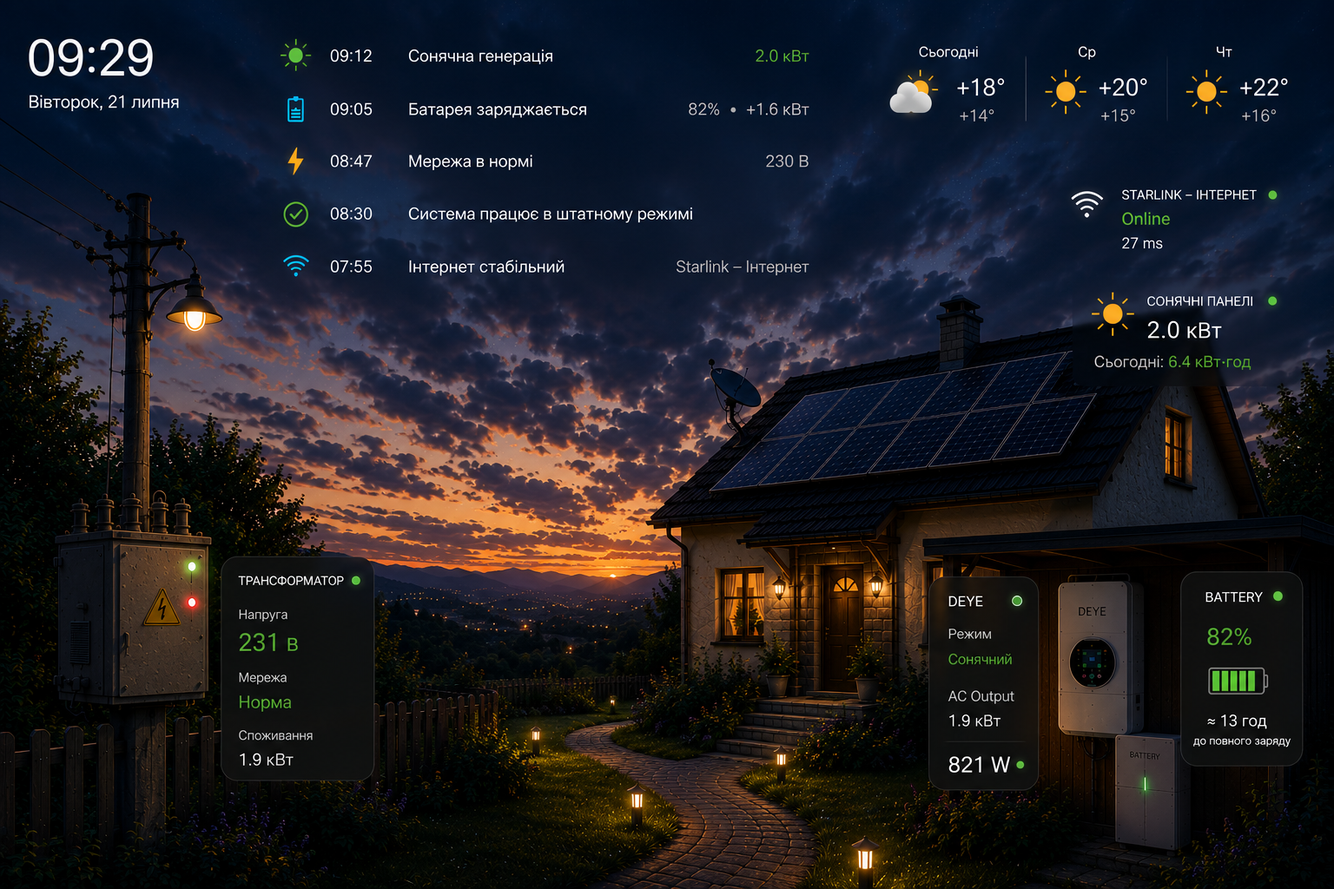
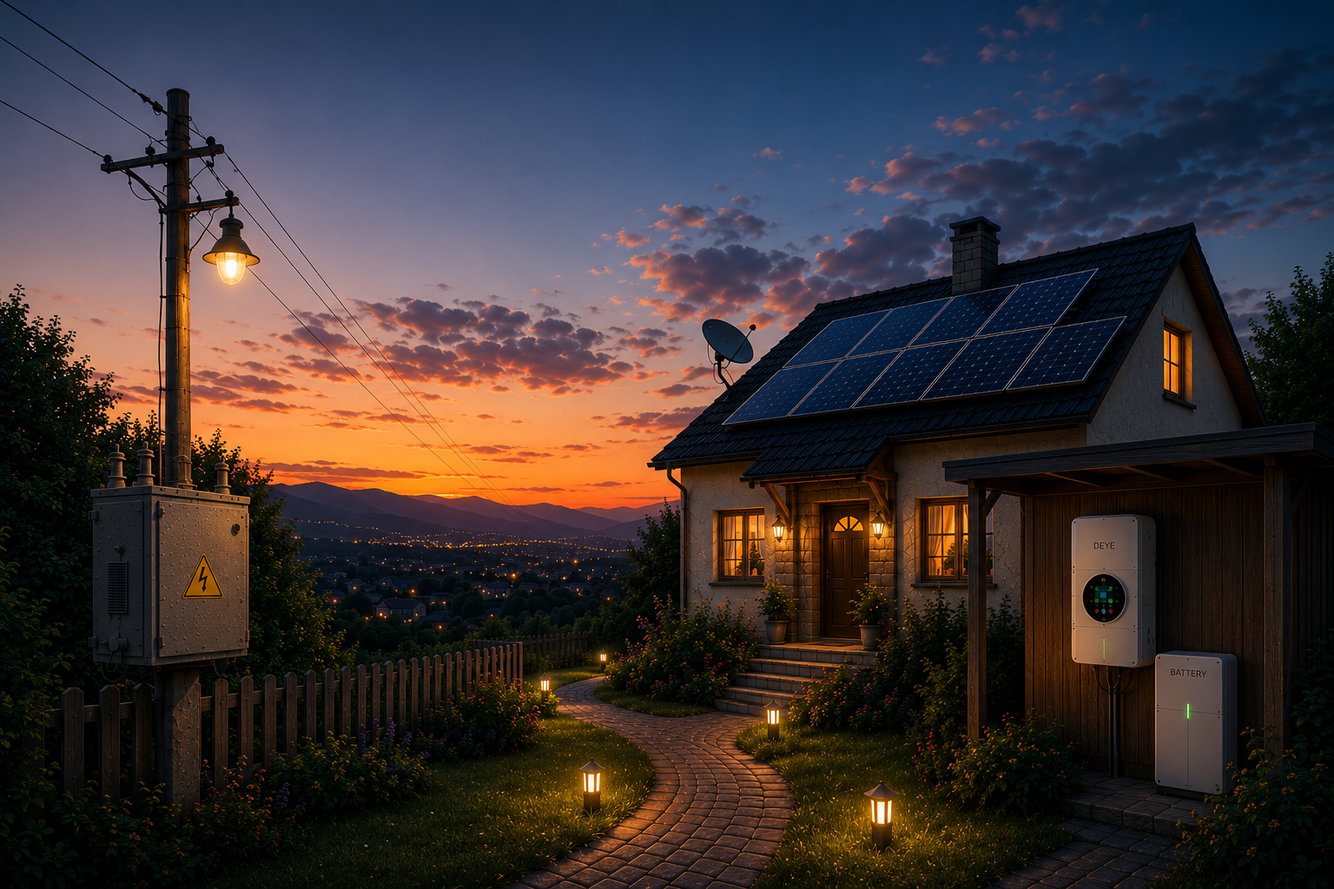
feat: new disign3

diff --git a/styles.css b/styles.css
@@ -1,25 +1,51 @@
-*{box-sizing:border-box}html,body{width:100%;height:100%;margin:0;overflow:hidden;background:#101722;color:#f5f7fb;font-family:Inter,ui-sans-serif,-apple-system,BlinkMacSystemFont,"Segoe UI",sans-serif}
-.scene{position:relative;width:100vw;height:100svh;min-height:520px;overflow:hidden;isolation:isolate;background:#172030}
-.scene__background,.scene__fallback,.scene__shade{position:absolute;inset:0;width:100%;height:100%}
-.scene__background{z-index:-4;object-fit:cover;object-position:center;filter:saturate(.9) contrast(1.02)}
-.scene__fallback{z-index:-5;background:radial-gradient(circle at 73% 34%,rgba(255,180,96,.42),transparent 28%),linear-gradient(180deg,#263a55 0%,#6b5662 48%,#243126 100%)}
-.scene__shade{z-index:-3;background:linear-gradient(180deg,rgba(6,10,17,.22),transparent 27%,transparent 69%,rgba(5,9,14,.38)),linear-gradient(90deg,rgba(4,8,14,.27),transparent 25%,transparent 76%,rgba(4,8,14,.2));pointer-events:none}
-.top{position:absolute;left:clamp(18px,3vw,54px);right:clamp(18px,3vw,54px);top:clamp(15px,2.6vw,42px);display:grid;grid-template-columns:1fr auto 1fr;align-items:start;z-index:5;pointer-events:none}
-.brand{display:flex;align-items:baseline;gap:10px;text-shadow:0 2px 18px #000}.brand strong{font-size:clamp(22px,2vw,36px);letter-spacing:.12em}.brand span{font-size:clamp(9px,.75vw,13px);letter-spacing:.22em;opacity:.66}
-.clock{text-align:center;text-shadow:0 3px 24px #000}.clock strong{display:block;font-size:clamp(26px,3.1vw,54px);font-weight:450;line-height:.9;letter-spacing:-.04em}.clock span{display:block;margin-top:8px;font-size:clamp(10px,.78vw,13px);opacity:.62}
-.weather{justify-self:end;display:grid;grid-template-columns:auto auto;column-gap:10px;align-items:center;text-shadow:0 2px 18px #000}.weather__icon{font-size:clamp(22px,2vw,34px)}.weather strong{display:block;font-size:clamp(18px,1.7vw,30px);font-weight:550}.weather small{display:block;font-size:11px;opacity:.7}.forecast{grid-column:1/-1;display:flex;gap:10px;margin-top:7px;justify-content:flex-end}.forecast span{font-size:10px;opacity:.65}
-.house-log{position:absolute;left:clamp(22px,4vw,72px);top:clamp(108px,17vh,180px);z-index:4;display:flex;flex-direction:column;gap:9px;max-width:min(31vw,420px);pointer-events:none;text-shadow:0 2px 16px #000}
-.log-row{display:flex;gap:11px;align-items:baseline;font-size:clamp(11px,.82vw,14px);opacity:.58}.log-row:first-child{opacity:.88}.log-row time{font-variant-numeric:tabular-nums;opacity:.72}.log-row span{font-weight:470}
-.hud-layer{position:absolute;inset:0;z-index:6;pointer-events:none}
-.hud,.internet-hud{position:absolute;transform:translate3d(-50%,-50%,0);pointer-events:none;will-change:transform;backface-visibility:hidden}
-.hud{width:clamp(92px,7.6vw,132px);min-height:clamp(68px,5.7vw,94px);padding:10px 12px;border:1px solid rgba(255,255,255,.12);border-radius:14px;background:linear-gradient(180deg,rgba(8,14,20,.77),rgba(6,10,16,.58));box-shadow:0 12px 28px rgba(0,0,0,.22),inset 0 1px rgba(255,255,255,.045);backdrop-filter:blur(8px);display:flex;flex-direction:column;align-items:center;justify-content:center;gap:4px}
-.hud strong{font-size:clamp(15px,1.22vw,21px);font-weight:610;line-height:1.05;font-variant-numeric:tabular-nums;white-space:nowrap}
-.hud__secondary{font-size:clamp(9px,.68vw,11px)!important;opacity:.68!important;white-space:nowrap}.hud__secondary b{font-weight:530}
-.hud__details{display:flex;align-items:center;justify-content:center;gap:4px;font-size:clamp(8px,.65vw,11px);opacity:.69;white-space:nowrap;font-variant-numeric:tabular-nums}.hud__details b{font-weight:520}
-.hud__icon{font-size:15px;color:#f6c968;line-height:1}.hud__icon--house{color:#4ba0ff;font-size:13px;transform:rotate(45deg)}
-.status-dot{position:absolute;right:9px;top:9px;width:7px;height:7px;border-radius:50%;background:#61e69b;box-shadow:0 0 10px rgba(97,230,155,.65)}.offline{background:#ff6e73!important;box-shadow:0 0 10px rgba(255,110,115,.6)!important}
-.battery-glyph{width:20px;height:10px;border:1px solid rgba(255,255,255,.65);border-radius:2px;position:relative;margin-bottom:1px}.battery-glyph:after{content:"";position:absolute;right:-3px;top:2px;width:2px;height:4px;background:rgba(255,255,255,.65)}.battery-glyph i{display:block;height:100%;width:0;background:#61e69b;border-radius:1px;transition:width .35s ease}
-.internet-hud{display:flex;gap:7px;align-items:center;padding:6px 9px;border-radius:10px;background:rgba(7,12,18,.5);backdrop-filter:blur(7px);text-shadow:0 2px 12px #000}.internet-hud>i{width:7px;height:7px;border-radius:50%;background:#61e69b;box-shadow:0 0 9px rgba(97,230,155,.7)}.internet-hud div{display:flex;flex-direction:column}.internet-hud strong{font-size:10px;font-weight:550}.internet-hud span{font-size:10px;opacity:.68;font-variant-numeric:tabular-nums}
-.energy-canvas{position:absolute;inset:0;width:100%;height:100%;z-index:3;pointer-events:none}
-.spirit{position:absolute;left:50%;bottom:9%;transform:translateX(-50%) translateY(10px);z-index:8;padding:9px 14px;border-radius:10px;background:rgba(7,11,17,.55);backdrop-filter:blur(8px);font-size:clamp(12px,.9vw,15px);opacity:0;transition:.35s ease;text-shadow:0 2px 12px #000;pointer-events:none}.spirit.show{opacity:1;transform:translateX(-50%) translateY(0)}
-@media (max-width:800px){.scene{min-height:480px}.brand span{display:none}.top{grid-template-columns:1fr auto}.clock{grid-column:1;grid-row:1;text-align:left;margin-top:45px}.weather{grid-column:2;grid-row:1}.forecast{display:none}.house-log{top:106px;left:18px;max-width:54vw;gap:7px}.log-row:nth-child(n+4){display:none}.hud{width:84px;min-height:62px;padding:8px}.spirit{bottom:4%;white-space:nowrap}}
+:root {
+  --text: rgba(255,255,255,.95);
+  --muted: rgba(255,255,255,.64);
+  --glass: rgba(5,10,18,.70);
+  --line: rgba(255,255,255,.13);
+  --green: #75e84b;
+  --shadow: 0 12px 34px rgba(0,0,0,.34);
+}
+* { box-sizing: border-box; }
+html,body { width:100%; height:100%; margin:0; background:#07111f; color:var(--text); font-family:Inter,ui-sans-serif,system-ui,-apple-system,BlinkMacSystemFont,"Segoe UI",sans-serif; }
+body { overflow:hidden; }
+.scene { position:relative; width:100vw; height:100vh; overflow:hidden; isolation:isolate; background:#07111f; }
+.scene__background { position:absolute; inset:0; width:100%; height:100%; object-fit:cover; object-position:50% 50%; z-index:-3; user-select:none; pointer-events:none; }
+.scene__shade { position:absolute; inset:0; z-index:-2; pointer-events:none; background:linear-gradient(180deg,rgba(2,7,14,.24),transparent 40%),radial-gradient(circle at 50% 14%,transparent 0 26%,rgba(2,8,17,.14) 72%); }
+.brand { position:absolute; left:2.6%; top:5.6%; display:flex; align-items:baseline; gap:10px; text-shadow:0 3px 18px rgba(0,0,0,.55); }
+.brand strong { font-size:clamp(25px,2.1vw,36px); letter-spacing:.22em; font-weight:650; }
+.brand span { font-size:clamp(9px,.72vw,12px); letter-spacing:.28em; color:rgba(255,255,255,.70); }
+.clock { position:absolute; left:50%; top:7.0%; transform:translateX(-50%); text-align:center; text-shadow:0 3px 18px rgba(0,0,0,.50); }
+.clock__time { display:block; font-size:clamp(48px,4.25vw,76px); font-weight:300; letter-spacing:-.055em; line-height:.95; }
+.clock__date { margin-top:.62rem; font-size:clamp(12px,.9vw,15px); color:rgba(255,255,255,.63); }
+.house-log { position:absolute; left:3.7%; top:20.2%; display:grid; gap:8px; text-shadow:0 2px 12px rgba(0,0,0,.68); opacity:.72; }
+.house-log article { display:grid; grid-template-columns:44px auto; align-items:baseline; gap:8px; font-size:clamp(11px,.78vw,14px); }
+.house-log time { color:rgba(255,255,255,.52); font-variant-numeric:tabular-nums; }
+.house-log span { color:rgba(255,255,255,.84); }
+.weather { position:absolute; right:2.5%; top:4.2%; display:grid; grid-template-columns:repeat(3,auto); gap:24px; text-shadow:0 2px 14px rgba(0,0,0,.66); }
+.weather article { display:grid; grid-template-columns:auto auto; grid-template-rows:auto auto; column-gap:7px; align-items:center; min-width:88px; }
+.weather__icon { grid-row:1/3; font-size:clamp(26px,2.1vw,36px); }
+.weather strong { font-size:clamp(22px,1.8vw,31px); font-weight:430; }
+.weather small { color:var(--muted); font-size:clamp(11px,.82vw,14px); }
+.hud { position:absolute; min-width:116px; padding:13px 15px 12px; border:1px solid var(--line); border-radius:15px; background:linear-gradient(180deg,rgba(8,14,23,.76),rgba(5,10,18,.65)); box-shadow:var(--shadow); backdrop-filter:blur(15px) saturate(115%); -webkit-backdrop-filter:blur(15px) saturate(115%); text-align:center; display:grid; justify-items:center; gap:4px; text-shadow:0 2px 12px rgba(0,0,0,.55); }
+.hud__dot { position:absolute; right:10px; top:10px; width:7px; height:7px; border-radius:50%; background:var(--green); box-shadow:0 0 9px 2px rgba(117,232,75,.48); }
+.hud strong { font-size:clamp(18px,1.25vw,22px); line-height:1.1; font-weight:620; font-variant-numeric:tabular-nums; }
+.hud small { color:rgba(255,255,255,.68); font-size:clamp(9px,.64vw,11px); font-variant-numeric:tabular-nums; }
+.hud--grid { left:8.5%; top:54.5%; }
+.hud--internet { left:36.4%; top:31.0%; min-width:112px; }
+.hud--solar { left:55.1%; top:32.4%; }
+.hud--house { left:69.2%; top:55.7%; }
+.hud--battery { right:13.4%; bottom:22.6%; min-width:130px; }
+.battery-line { width:54px; height:3px; border-radius:999px; overflow:hidden; background:rgba(255,255,255,.16); margin:2px 0 1px; }
+.battery-line span { display:block; height:100%; border-radius:inherit; background:var(--green); box-shadow:0 0 8px rgba(117,232,75,.55); }
+@media (max-width:1000px) {
+  .weather { gap:12px; right:1.8%; }
+  .house-log { left:2.4%; top:18%; }
+  .hud { transform:scale(.88); transform-origin:center; }
+}
+@media (max-aspect-ratio:4/3) {
+  .scene__background { object-position:58% 50%; }
+  .brand { top:3.8%; }
+  .clock { top:5%; }
+  .weather { top:2.4%; }
+}

diff --git a/index.html b/index.html
@@ -1,66 +1,71 @@
 <!doctype html>
 <html lang="uk">
 <head>
-  <meta charset="utf-8">
-  <meta name="viewport" content="width=device-width,initial-scale=1,viewport-fit=cover">
-  <meta name="theme-color" content="#101722">
-  <title>NEX Living House — v0.3 step 2</title>
-  <link rel="stylesheet" href="styles.css">
+  <meta charset="utf-8" />
+  <meta name="viewport" content="width=device-width,initial-scale=1,viewport-fit=cover" />
+  <meta name="theme-color" content="#07111f" />
+  <title>NEX Living House — Clean Scene</title>
+  <link rel="stylesheet" href="styles.css" />
 </head>
 <body>
-  <main id="scene" class="scene">
-    <img class="scene__background" src="assets/house-concept-v4.png" alt="">
-    <div class="scene__fallback"></div>
-    <div class="scene__shade"></div>
+  <main class="scene" aria-label="NEX Living House">
+    <img class="scene__background" src="assets/house-bg-v2.png" alt="" />
+    <div class="scene__shade" aria-hidden="true"></div>
 
-    <header class="top">
-      <div class="brand"><strong>NEX</strong><span>LIVING HOUSE</span></div>
-      <div class="clock"><strong id="clock">--:--</strong><span id="date">--</span></div>
-      <section class="weather">
-        <span class="weather__icon" id="weatherIcon">☁</span>
-        <div><strong id="weatherTemp">--°</strong><small id="weatherState">—</small></div>
-        <div class="forecast" id="forecast"></div>
-      </section>
+    <div class="brand" aria-label="NEX Living House">
+      <strong>NEX</strong><span>LIVING HOUSE</span>
+    </div>
+
+    <header class="clock" data-node="clock">
+      <time class="clock__time" id="clock-time">18:41</time>
+      <div class="clock__date" id="clock-date">вівторок, 21 липня</div>
     </header>
 
-    <section id="houseLog" class="house-log"></section>
-
-    <section class="hud-layer">
-      <article class="hud hud--grid">
-        <i class="status-dot" id="gridStatus"></i>
-        <strong id="gridPower">— W</strong>
-        <div class="hud__details"><span>⚡ <b id="gridVoltage">— V</b></span><span>·</span><span><b id="gridTemp">—°C</b></span></div>
-      </article>
-
-      <article class="hud hud--solar">
-        <span class="hud__icon">☀</span>
-        <strong id="solarPower">— W</strong>
-        <span class="hud__secondary">Today <b id="solarToday">— kWh</b></span>
-      </article>
-
-      <article class="hud hud--deye">
-        <span class="hud__icon hud__icon--house">◆</span>
-        <strong id="deyeConsumption">— W</strong>
-        <span class="hud__secondary">Today <b id="deyeToday">— kWh</b></span>
-      </article>
-
-      <article class="hud hud--battery">
-        <span class="battery-glyph"><i id="batteryFill"></i></span>
-        <strong id="batteryRuntime">—</strong>
-        <div class="hud__details"><span><b id="batterySoc">—%</b></span><span>·</span><span>🌡 <b id="batteryTemp">—°C</b></span></div>
-      </article>
-
-      <article class="internet-hud">
-        <i id="internetStatus"></i>
-        <div><strong id="internetState">Internet</strong><span id="internetPing">— ms</span></div>
-      </article>
+    <section class="house-log" data-node="houseLog" aria-label="Події будинку">
+      <article><time>09:12</time><span>+2.0 кВт</span></article>
+      <article><time>09:05</time><span>Батарея заряджається</span></article>
+      <article><time>08:47</time><span>Мережа в нормі</span></article>
+      <article><time>07:55</time><span>Інтернет стабільний</span></article>
     </section>
 
-    <canvas id="energyCanvas" class="energy-canvas"></canvas>
-    <div id="spirit" class="spirit" role="status" aria-live="polite"></div>
+    <section class="weather" data-node="weather" aria-label="Прогноз погоди">
+      <article><span class="weather__icon">🌤</span><strong>+18°</strong><small>+14°</small></article>
+      <article><span class="weather__icon">☀</span><strong>+20°</strong><small>+15°</small></article>
+      <article><span class="weather__icon">☀</span><strong>+22°</strong><small>+16°</small></article>
+    </section>
+
+    <section class="hud hud--grid" data-node="gridHud" aria-label="Мережа">
+      <i class="hud__dot"></i>
+      <strong data-value="grid-power">251 W</strong>
+      <small><span data-value="grid-voltage">236.8 V</span> · <span data-value="grid-temp">39°C</span></small>
+    </section>
+
+    <section class="hud hud--internet" data-node="internetHud" aria-label="Інтернет">
+      <i class="hud__dot"></i>
+      <strong data-value="internet-status">Online</strong>
+      <small data-value="internet-ping">27 ms</small>
+    </section>
+
+    <section class="hud hud--solar" data-node="solarHud" aria-label="Сонячні панелі">
+      <i class="hud__dot"></i>
+      <strong data-value="solar-power">2.0 kW</strong>
+      <small data-value="solar-today">6.4 kWh</small>
+    </section>
+
+    <section class="hud hud--house" data-node="houseHud" aria-label="Будинок">
+      <i class="hud__dot"></i>
+      <strong data-value="house-power">238 W</strong>
+      <small data-value="house-today">5.6 kWh</small>
+    </section>
+
+    <section class="hud hud--battery" data-node="batteryHud" aria-label="Батарея">
+      <i class="hud__dot"></i>
+      <strong data-value="battery-runtime">21h 18m</strong>
+      <div class="battery-line" aria-hidden="true"><span style="width:82%"></span></div>
+      <small><span data-value="battery-soc">82%</span> · <span data-value="battery-temp">21°C</span></small>
+    </section>
   </main>
 
-  <script src="config.js"></script>
-  <script type="module" src="js/app.js"></script>
+  <script src="js/app.js"></script>
 </body>
 </html>

diff --git a/css/hud.css b/css/hud.css
@@ -1,1 +1,1 @@
-.hud{min-width:104px;padding:10px 12px;border:1px solid var(--line);border-radius:13px;background:linear-gradient(180deg,rgba(11,22,34,.8),rgba(5,11,18,.76));box-shadow:0 16px 46px rgba(0,0,0,.34);backdrop-filter:blur(12px);text-shadow:0 2px 14px rgba(0,0,0,.6)}.dot{display:block;width:9px;height:9px;border-radius:50%;background:var(--ok);box-shadow:0 0 10px rgba(114,227,69,.7);margin-bottom:7px}.primary{display:block;font-size:clamp(21px,1.7vw,31px);line-height:1;font-weight:500}.secondary{display:block;margin-top:8px;font-size:clamp(12px,.9vw,15px);color:var(--muted)}.good{color:var(--ok)}.clock{text-shadow:0 3px 20px rgba(0,0,0,.65)}.clock time{display:block;font-size:clamp(46px,4.2vw,74px);line-height:.92;font-weight:300;letter-spacing:-.05em}.clock div{margin-top:10px;font-size:clamp(14px,1.1vw,20px)}.weather{display:grid;grid-template-columns:repeat(3,1fr);min-width:320px;padding:12px 14px}.weather article{text-align:center;padding:0 12px;border-right:1px solid rgba(255,255,255,.1)}.weather article:last-child{border-right:0}.weather b{display:block;font-size:clamp(21px,1.7vw,30px);margin-top:5px}.weather small{color:var(--muted)}.log{width:min(42vw,650px);display:grid;gap:2px;text-shadow:0 2px 13px rgba(0,0,0,.8)}.log-row{display:grid;grid-template-columns:58px 24px 1fr auto;gap:10px;align-items:center;min-height:31px;border-bottom:1px solid rgba(255,255,255,.08);font-size:clamp(12px,.95vw,16px)}.internet{display:flex;gap:9px;align-items:center;text-shadow:0 2px 14px rgba(0,0,0,.85)}.internet .wifi{font-size:27px;transform:rotate(-18deg)}.internet strong{display:block;color:var(--ok);font-size:17px}.battery-glyph{display:grid;grid-template-columns:repeat(5,1fr);gap:2px;width:50px;height:23px;padding:3px;border:2px solid rgba(255,255,255,.8);border-radius:4px;margin-top:8px}.battery-glyph i{background:var(--ok)}
+.hud{min-width:92px;padding:10px 12px;border:1px solid var(--line);border-radius:18px;background:linear-gradient(180deg,rgba(11,22,34,.8),rgba(5,11,18,.76));box-shadow:0 16px 46px rgba(0,0,0,.34);backdrop-filter:blur(18px);text-shadow:0 2px 14px rgba(0,0,0,.6)}.dot{display:block;width:9px;height:9px;border-radius:50%;background:var(--ok);box-shadow:0 0 10px rgba(114,227,69,.7);margin-bottom:7px}.primary{display:block;font-size:clamp(21px,1.7vw,31px);line-height:1;font-weight:500}.secondary{display:block;margin-top:8px;font-size:clamp(12px,.9vw,15px);color:var(--muted)}.good{color:var(--ok)}.clock{text-shadow:0 3px 20px rgba(0,0,0,.65)}.clock time{display:block;font-size:clamp(46px,4.2vw,74px);line-height:.92;font-weight:300;letter-spacing:-.05em}.clock div{margin-top:10px;font-size:clamp(14px,1.1vw,20px)}.weather{display:grid;grid-template-columns:repeat(3,1fr);min-width:320px;padding:12px 14px}.weather article{text-align:center;padding:0 12px;border-right:1px solid rgba(255,255,255,.1)}.weather article:last-child{border-right:0}.weather b{display:block;font-size:clamp(21px,1.7vw,30px);margin-top:5px}.weather small{color:var(--muted)}.log{width:min(38vw,560px);display:grid;gap:6px;text-shadow:0 2px 13px rgba(0,0,0,.8)}.log-row{display:grid;grid-template-columns:58px 24px 1fr auto;gap:10px;align-items:center;min-height:31px;border-bottom:none;font-size:clamp(12px,.95vw,16px)}.internet{display:flex;gap:9px;align-items:center;text-shadow:0 2px 14px rgba(0,0,0,.85)}.internet .wifi{font-size:27px;transform:rotate(-18deg)}.internet strong{display:block;color:var(--ok);font-size:17px}.battery-glyph{display:grid;grid-template-columns:repeat(5,1fr);gap:2px;width:50px;height:23px;padding:3px;border:2px solid rgba(255,255,255,.8);border-radius:4px;margin-top:8px}.battery-glyph i{background:var(--ok)}

diff --git a/js/renderer.js b/js/renderer.js
@@ -1,1 +1,1 @@
-const n=(id,cls,html)=>{const e=document.createElement("section");e.className=`scene-node ${cls}`;e.dataset.node=id;e.innerHTML=html;return e};export class Renderer{constructor(root){this.root=root}render(s){const clock=n("clock","clock",`<time>--:--</time><div></div>`);const upd=()=>{const d=new Date();clock.querySelector("time").textContent=d.toLocaleTimeString("uk-UA",{hour:"2-digit",minute:"2-digit"});let x=d.toLocaleDateString("uk-UA",{weekday:"long",day:"numeric",month:"long"});clock.querySelector("div").textContent=x[0].toUpperCase()+x.slice(1)};upd();setInterval(upd,30000);const log=n("houseLog","log",s.log.map(x=>`<div class="log-row"><time>${x.time}</time><span class="good">${x.icon}</span><span>${x.text}</span><b class="good">${x.value}</b></div>`).join(""));const weather=n("weather","hud weather",s.weather.map(x=>`<article><span>${x.label}</span><b>${x.icon} +${x.high}°</b><small>+${x.low}°</small></article>`).join(""));const internet=n("internet","internet",`<span class="wifi">◔</span><span><strong>${s.internet.online?"Online":"Offline"}</strong>${s.internet.pingMs} ms</span>`);const solar=n("solar","hud",`<i class="dot"></i><b class="primary good">${s.solar.powerKw.toFixed(1)} кВт</b><span class="secondary">${s.solar.todayKwh.toFixed(1)} кВт·год</span>`);const tr=n("transformer","hud",`<i class="dot"></i><b class="primary good">${s.transformer.voltage} В</b><span class="secondary"><b>${s.transformer.gridKw.toFixed(1)} кВт</b></span>`);const deye=n("deye","hud",`<i class="dot"></i><b class="primary">${s.deye.consumptionKw.toFixed(1)} кВт</b><span class="secondary"><b>${s.deye.loadW} Вт</b></span>`);const bat=n("battery","hud",`<i class="dot"></i><b class="primary good">${s.battery.percent}%</b><span class="secondary"><b>≈ ${s.battery.hours} год</b></span><span class="battery-glyph"><i></i><i></i><i></i><i></i><i></i></span>`);this.root.replaceChildren(clock,log,weather,internet,solar,tr,deye,bat)}}
+export class Renderer{constructor(){} render(){/* legacy disabled */}}

diff --git a/js/app.js b/js/app.js
@@ -1,3 +1,24 @@
-import {HouseState} from './house-state.js';import {LayoutEngine} from './layout-engine.js';import {StateRenderer} from './state-renderer.js';import {EnergyFlow} from './energy-flow.js';import {HAAdapter} from './ha-adapter.js';
-const state=new HouseState({grid:{online:true,power:251,voltage:236.8,temperature:39.4},solar:{power:0,today:0},house:{power:238,today:5.6},battery:{soc:82,runtimeMinutes:1278,temperature:21,power:0},internet:{online:true,ping:27},weather:{temp:18,state:'Хмарно',icon:'☁',forecast:[['Ср','20°'],['Чт','22°'],['Пт','19°']]},events:[{time:'09:12',text:'+2.0 kW'},{time:'09:05',text:'Battery charging'},{time:'08:47',text:'Grid OK'},{time:'07:55',text:'Internet OK'}]});
-const layout=new LayoutEngine();await layout.init();const renderer=new StateRenderer(state);renderer.init();const flow=new EnergyFlow(document.querySelector('#energyCanvas'),state,layout);flow.start();state.subscribe(s=>renderer.render(s));renderer.render(state.value);const adapter=new HAAdapter(window.NEX_CONFIG||{},state);if(window.NEX_CONFIG?.enabled)adapter.start();window.NEX={state,adapter,update:p=>state.update(p),spirit:(m,t)=>renderer.spirit(m,t),refresh:()=>adapter.refresh()};
+(() => {
+  const timeEl = document.getElementById('clock-time');
+  const dateEl = document.getElementById('clock-date');
+
+  const updateClock = () => {
+    const now = new Date();
+    timeEl.textContent = new Intl.DateTimeFormat('uk-UA', {
+      hour: '2-digit',
+      minute: '2-digit',
+      hour12: false
+    }).format(now);
+
+    const raw = new Intl.DateTimeFormat('uk-UA', {
+      weekday: 'long',
+      day: 'numeric',
+      month: 'long'
+    }).format(now);
+
+    dateEl.textContent = raw.charAt(0).toUpperCase() + raw.slice(1);
+  };
+
+  updateClock();
+  setInterval(updateClock, 1000 * 30);
+})();

diff --git a/css/main.css b/css/main.css
@@ -1,1 +1,2 @@
 :root{--ok:#72e345;--warn:#ffc42d;--bad:#ff4d45;--text:#fff;--muted:rgba(255,255,255,.72);--glass:rgba(6,12,20,.72);--line:rgba(255,255,255,.14)}*{box-sizing:border-box}html,body{margin:0;width:100%;height:100%;background:#07111d;color:var(--text);font-family:Inter,system-ui,-apple-system,"Segoe UI",sans-serif}body{overflow:hidden}.scene{position:relative;width:100vw;height:100svh;overflow:hidden;isolation:isolate}.scene__background{position:absolute;inset:0;width:100%;height:100%;object-fit:cover;object-position:50% 50%;z-index:-3}.scene__veil{position:absolute;inset:0;z-index:-2;background:linear-gradient(180deg,rgba(0,4,10,.18),transparent 32%),radial-gradient(circle at 45% 18%,transparent 0 30%,rgba(0,4,10,.1) 75%)}.energy,.widgets{position:absolute;inset:0;width:100%;height:100%}.energy{pointer-events:none;z-index:2}.widgets{z-index:3}.scene-node{position:absolute;left:calc(var(--x)*1%);top:calc(var(--y)*1%);transform:translate(var(--tx,-50%),var(--ty,-50%)) scale(var(--scale,1));transform-origin:center}
+.house-log{opacity:.9}.weather{transform:scale(.92);transform-origin:top right}.clock{transform:translateY(18px)}

diff --git a/AGENTS.md b/AGENTS.md
@@ -1,0 +1,73 @@
+# NEX Living House
+
+## Product vision
+
+NEX is not a traditional Home Assistant dashboard.
+
+It is a living digital scene of the house.
+
+The user looks at the house, not at dashboard cards.
+
+## Core UI rules
+
+- The house is the visual center.
+- No large dashboard cards.
+- No duplicated information.
+- One physical object has one compact HUD.
+- HUD elements must visually belong to their objects.
+- Data should be minimal and readable at a glance.
+- The scene should feel cinematic, calm, and premium.
+- House Log looks like subtle subtitles, not a panel.
+- Details may open only after clicking an object.
+- Do not add new features until the static scene is clean.
+
+## Current milestone
+
+NEX v0.5 — Clean Scene.
+
+Remove these legacy blocks completely:
+
+- large Transformer panel
+- large Solar panel
+- large Starlink/Internet panel
+- large DEYE panel
+- large Battery panel
+- large colored icons in House Log
+- duplicated values
+
+Keep:
+
+- NEX logo
+- clock and date
+- compact weather
+- subtle House Log
+- compact HUD near transformer
+- compact HUD near solar panels
+- compact HUD near inverter/house
+- compact HUD near battery
+- compact HUD near Starlink
+- background house image
+- Home Assistant state integration
+
+## Current known asset
+
+Background images are located in:
+
+assets/
+
+Examples:
+
+- assets/house-bg-v2.png
+- assets/house-concept-v4.png
+
+Do not remove or rename image assets without checking all references.
+
+## Required workflow
+
+1. Inspect the existing repository before editing.
+2. Do not replace the project with a newly generated template.
+3. Preserve the existing Home Assistant integration.
+4. Preserve all working entity mappings.
+5. Make small focused changes.
+6. Show the diff after editing.
+7. Do not commit or push until the user approves.

diff --git a/README.md b/README.md
@@ -1,22 +1,24 @@
-# NEX Living House — v0.3 step 2
+# NEX Living House v0.5 — Clean Scene
 
-Параметри:
-- Solar: W зараз + kWh за день
-- Deye/House: W зараз + kWh за день
-- Battery: SOC + прогноз часу + температура
-- Grid/Transformer: W + V + температура
-- Internet: окремий online/offline + ping
+У цій версії прибрано всі великі дублюючі панелі:
 
-## Підключення Home Assistant
-Відкрий `config.js`, встав точні `entity_id`, токен і постав `enabled:true`.
+- Internet panel
+- Solar panel
+- Transformer card
+- Deye card
+- Battery card
+- великі іконки House Log
 
-## Старі картки
-Цей `index.html` старих карток не містить. Якщо вони залишились — відкритий старий каталог або кеш.
-Запусти нову папку на іншому порту:
+Залишено лише сцену, погоду, годинник, компактний House Log та п’ять HUD, прив’язаних до фізичних об’єктів.
+
+## Запуск
 
 ```bash
-cd NEX-v0.3-step2
-python3 -m http.server 8081
+python3 -m http.server 8080
 ```
 
-Потім відкрий `http://IP:8081/` і зроби hard reload.
+Відкрити `http://localhost:8080`.
+
+## Підключення даних
+
+Значення мають `data-value` атрибути, тому їх можна напряму оновлювати з `HouseState` або `ha-adapter.js`.
